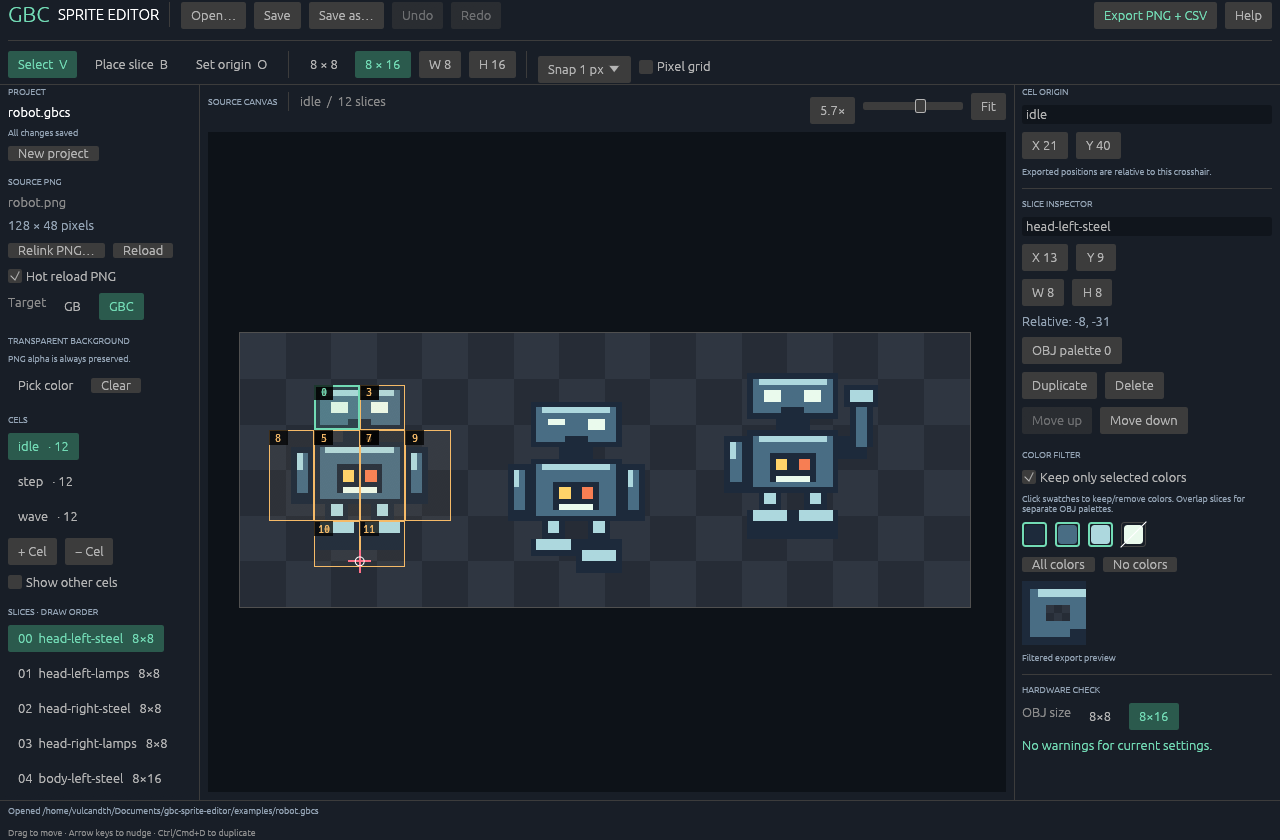
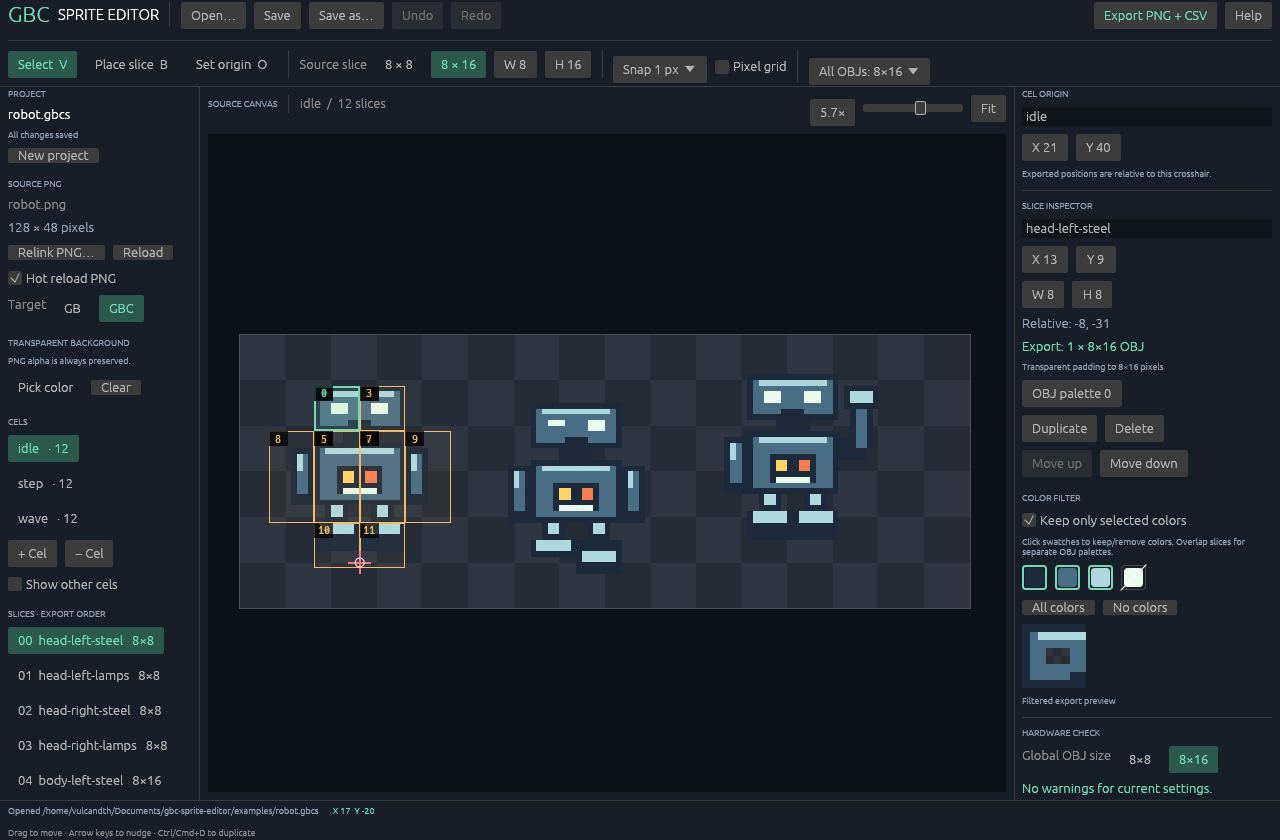
Clarify global OBJ size and verify mixed source cutouts

diff --git a/src/app.rs b/src/app.rs
@@ -463,6 +463,7 @@ impl Editor {
             ui.selectable_value(&mut self.tool, Tool::Slice, "Place slice  B");
             ui.selectable_value(&mut self.tool, Tool::Origin, "Set origin  O");
             ui.separator();
+            ui.label("Source slice").on_hover_text("Cutout size in the PNG. Hardware objects use the single global export mode.");
             if ui.selectable_label(self.stamp == [8, 8], "8 × 8").clicked() {
                 self.stamp = [8, 8];
                 self.tool = Tool::Slice;
@@ -494,6 +495,16 @@ impl Editor {
                     }
                 });
             ui.checkbox(&mut self.pixel_grid, "Pixel grid");
+            ui.separator();
+            egui::ComboBox::from_id_salt("global-obj-size")
+                .selected_text(format!("All OBJs: 8×{}", self.object_height))
+                .show_ui(ui, |ui| {
+                    for height in [8, 16] {
+                        if ui.selectable_value(&mut self.object_height, height, format!("8×{height} — all cels")).changed() {
+                            self.warnings_dirty = true;
+                        }
+                    }
+                }).response.on_hover_text("LCDC.2 sets one size for all hardware OBJs. Source cutouts are split or transparently padded to this size on export.");
         });
     }
 
@@ -616,7 +627,7 @@ impl Editor {
                 });
                 ui.checkbox(&mut self.all_cels, "Show other cels");
                 ui.add_space(8.0);
-                section(ui, "SLICES · DRAW ORDER");
+                section(ui, "SLICES · EXPORT ORDER");
                 let mut select = None;
                 for (i, slice) in self.cel().slices.iter().enumerate() {
                     if ui
@@ -657,6 +668,7 @@ impl Editor {
             section(ui, "SLICE INSPECTOR");
             if let Some(index) = self.selected_slice {
                 let origin = [self.cel().origin_x, self.cel().origin_y];
+                let object_height = self.object_height;
                 let slice = &mut self.cel_mut().slices[index];
                 ui.add(egui::TextEdit::singleline(&mut slice.name).char_limit(256));
                 ui.horizontal(|ui| {
@@ -668,6 +680,13 @@ impl Editor {
                     ui.add(egui::DragValue::new(&mut slice.height).range(1..=256).prefix("H "));
                 });
                 ui.label(RichText::new(format!("Relative: {}, {}", slice.x-origin[0], slice.y-origin[1])).color(MUTED));
+                let columns = slice.width.div_ceil(8);
+                let rows = slice.height.div_ceil(object_height);
+                ui.label(RichText::new(format!("Export: {} × 8×{} OBJ", columns * rows, object_height)).color(ACCENT));
+                if columns * 8 != slice.width || rows * object_height != slice.height {
+                    ui.label(RichText::new(format!("Transparent padding to {}×{} pixels", columns * 8, rows * object_height)).small().color(MUTED));
+                }
+
                 ui.add(egui::DragValue::new(&mut slice.palette).range(0..=7).prefix("OBJ palette ")).on_hover_text("GB uses 0–1; GBC uses 0–7. Palette IDs are metadata, not color quantization.");
                 ui.horizontal(|ui| {
                     if ui.button("Duplicate").clicked() { self.duplicate(); }
@@ -719,7 +738,7 @@ impl Editor {
             ui.separator();
             section(ui, "HARDWARE CHECK");
             ui.horizontal(|ui| {
-                ui.label("OBJ size");
+                ui.label("Global OBJ size");
                 if ui.selectable_value(&mut self.object_height,8,"8×8").changed() { self.warnings_dirty = true; }
                 if ui.selectable_value(&mut self.object_height,16,"8×16").changed() { self.warnings_dirty = true; }
             });
@@ -1055,12 +1074,12 @@ impl Editor {
                 ui.heading("Export PNG + CSV");
                 ui.label("Creates a new folder containing tile artwork, individual slices, and origin-relative layout data.");
                 ui.horizontal(|ui| {
-                    ui.label("Hardware object size");
+                    ui.label("Global hardware OBJ size");
                     if ui.selectable_value(&mut self.object_height,8,"8 × 8").changed() { self.warnings_dirty = true; }
                     if ui.selectable_value(&mut self.object_height,16,"8 × 16").changed() { self.warnings_dirty = true; }
                 });
                 ui.add(egui::DragValue::new(&mut self.tiles_per_row).range(2..=64).speed(2).prefix("8×8 tiles per row: "));
-                if self.object_height==16 { ui.label("8×16 objects use consecutive top/bottom tiles with an even starting index."); }
+                if self.object_height==16 { ui.label("All exported objects are 8×16. Smaller cutouts are padded; larger ones are split. Tile pairs start at an even index."); }
                 ui.label("Original RGB colors are preserved. Color filtering and the transparent background are applied.");
                 if !self.warnings.is_empty() { ui.colored_label(Color32::from_rgb(239,191,112),format!("{} hardware warning(s). Review Hardware check before conversion.",self.warnings.len())); }
                 ui.separator();

diff --git a/src/export.rs b/src/export.rs
@@ -633,6 +633,52 @@ mod tests {
     }
 
     #[test]
+    fn mixed_source_sizes_use_one_global_hardware_object_height() {
+        // The opaque pixels below the short slice must never leak into its
+        // padding when the global hardware mode is 8x16.
+        let source = RgbaImage::from_pixel(16, 16, Rgba([20, 30, 40, 255]));
+        let project = project(vec![slice(0, 0, 8, 8), slice(8, 0, 8, 16)]);
+        let temp = tempfile::tempdir().unwrap();
+        for (object_height, expected_objects, expected_tiles) in [(8, 3, 3), (16, 2, 4)] {
+            let output = temp.path().join(format!("mode-{object_height}"));
+            let summary = export_project(
+                &project,
+                &source,
+                &output,
+                ExportOptions {
+                    object_height,
+                    tiles_per_row: 4,
+                },
+            )
+            .unwrap();
+            assert_eq!(
+                (summary.objects, summary.tiles),
+                (expected_objects, expected_tiles)
+            );
+            let rows = records(&output.join("objects.csv"));
+            assert_eq!(rows.len(), expected_objects);
+            for row in &rows {
+                assert_eq!(&row[11], "8");
+                assert_eq!(row[12].parse::<u32>().unwrap(), object_height);
+            }
+            if object_height == 16 {
+                for row in &rows {
+                    assert_eq!(row[9].parse::<usize>().unwrap() % 2, 0);
+                }
+                let atlas = image::open(output.join("tiles.png")).unwrap().to_rgba8();
+                for y in 0..8 {
+                    for x in 0..8 {
+                        assert_eq!(atlas.get_pixel(x, y)[3], 255);
+                        assert_eq!(atlas.get_pixel(8 + x, y)[3], 0);
+                        assert_eq!(atlas.get_pixel(16 + x, y)[3], 255);
+                        assert_eq!(atlas.get_pixel(24 + x, y)[3], 255);
+                    }
+                }
+            }
+        }
+    }
+
+    #[test]
     fn irregular_slices_pad_last_object_instead_of_sampling_neighbors() {
         let source = RgbaImage::from_pixel(32, 32, Rgba([20, 30, 40, 255]));
         let project = project(vec![slice(3, 5, 9, 9)]);

diff --git a/src/project.rs b/src/project.rs
@@ -578,17 +578,25 @@ mod tests {
     }
 
     #[test]
-    fn missing_source_preserves_unresolved_parent_components() {
+    fn missing_source_resolution_follows_platform_path_semantics() {
         let directory = tempfile::tempdir().unwrap();
         let project = Project {
             image_path: "images/../sprite.png".into(),
             ..Project::default()
         };
+        // Windows canonicalization removes `images/..` before filesystem
+        // traversal, even if `images` does not exist. Unix must traverse that
+        // component first, so our unresolved suffix correctly retains it.
+        let missing_suffix = if cfg!(windows) {
+            "sprite.png"
+        } else {
+            "images/../sprite.png"
+        };
         assert_eq!(
             resolve_image(&project, Some(&directory.path().join("scene.gbcs"))),
             dunce::canonicalize(directory.path())
                 .unwrap()
-                .join("images/../sprite.png")
+                .join(missing_suffix)
         );
         std::fs::create_dir(directory.path().join("images")).unwrap();
         assert_eq!(

diff --git a/README.md b/README.md
@@ -162,6 +162,8 @@ In the atlas, custom rectangles are padded to whole 8×8 or 8×16 objects; indiv
 
 The editor validates palette numbers and reports likely hardware problems, including more than three visible RGB colors per object or shared palette within a cel, partial alpha, more than 40 objects in one cel, more than ten objects intersecting a scanline, and out-of-image slices. Warnings do not automatically alter the art.
 
+**An export never mixes 8×8 and 8×16 hardware objects.** The toolbar's **All OBJs** setting selects one size for every cel, as required by [Pan Docs: LCDC.2](https://github.com/gbdev/pandocs/blob/master/src/LCDC.md#lcdc2--obj-size). Source cutout sizes may differ: an 8×16 cutout becomes two objects in 8×8 mode; an 8×8 cutout becomes one transparently padded object in 8×16 mode. The inspector shows the resulting object count and padding.
+
 Object height is global for an export, matching the GB/CGB hardware's global 8×8 or 8×16 OBJ mode. Hardware color conversion, screen clipping, OAM ordering/priority, VRAM allocation, and interaction with other sprites remain your game's responsibility. A cel-level check cannot account for other cels displayed at the same time.
 
 ### Command-line export
